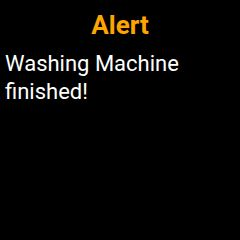
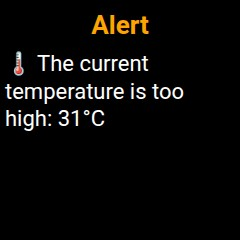
updates examples

diff --git a/README.md b/README.md
@@ -94,7 +94,7 @@ Sends a message or custom HTML to the device. The content is rendered to a 240x2
 action: geek_magic.send_html
 data:
   subject: "Alert"
-  text: "Washing Machine finished!"
+  text: "🌡 The current temperature is too high: {{ states('sensor.average_temperature') | round(1) }}°C"
 ```
 
 </details>
@@ -107,17 +107,19 @@ data:
 ```yaml
 action: geek_magic.send_html
 data:
-  subject: Main door
-  text: |
-    <p style="font-size: 84px; padding: 30px 0">🚪🚶</p>
+  subject: >-
+    ⏳ {{ ((as_timestamp(state_attr('calendar.your_calendar_name', 'start_time')) - as_timestamp(now())) / 60) | round }} minutes
+  text: >-
+    <p style="padding-top:15px; font-size:32px">🕒 {{ as_timestamp(state_attr('calendar.your_calendar_name', 'start_time')) | timestamp_custom('%H:%M') }}<p>
+    <p style="padding-top:25px; font-size:28px; text-align:center">{{ state_attr('calendar.your_calendar_name', 'message') }}<p>
 ```
 
 </details>
 
-![Formatted Notification](/images/render_door.jpg)
+![Formatted Notification](/images/render_calendar.jpg)
 
 <details>
-<summary>Neon Clock</summary>
+<summary>Climate</summary>
 
 ```yaml
 action: geek_magic.send_html
@@ -125,41 +127,138 @@ data:
   html: |
     <html lang="en">
     <head>
-        <title>Neon Clock</title>
-        <style>
-            body {
-                display: flex;
-                justify-content: center;
-                align-items: center;
-                height: 100vh;
-                background: #121212;
-            }
+    <meta charset="UTF-8"/>
+    <title>Climate</title>
+    <style>
+      body {
+        margin: 0;
+        font-family: Roboto, serif;
+      }
 
-            .clock {
-                width: 240px;
-                height: 240px;
-                border-radius: 50%;
-                background: #1e1e1e;
-                display: flex;
-                justify-content: center;
-                align-items: center;
-                font-family: Arial, sans-serif;
-                font-size: 48px;
-                font-weight: bold;
-                color: #00ffae;
-                box-shadow: 0 0 15px rgba(0, 255, 174, 0.5);
-            }
-        </style>
+      .widget {
+        width: 240px;
+        height: 240px;
+        background: #000000;
+        color: #e6e6e6;
+        overflow: hidden;
+      }
+
+      .row {
+        display: flex;
+        justify-content: space-evenly;
+        align-items: stretch;
+        font-size: 112px;
+      }
+    </style>
     </head>
     <body>
-    <div class="clock">{{ as_timestamp(now()) | timestamp_custom('%H:%M') }}</div>
+    <div class="widget">
+      <div class="row">
+        <span style="font-size: 40px; padding-right: 2px">🌡</span>{{ states('sensor.temperature') | round }}<span style="font-size: 48px;">°C</span>
+      </div>
+      <div class="row">
+        <span style="font-size: 40px; padding-right: 2px;">💧</span>{{ states('sensor.humidity') | round }}<span style="font-size: 48px;">%</span>
+      </div>
+    </div>
     </body>
     </html>
 ```
 
 </details>
 
-![Neon Clock](/images/render_clock.jpg)
+![Climate](/images/render_climate.jpg)
+
+<details>
+<summary>Bus Departure</summary>
+
+```yaml
+action: geek_magic.send_html
+data:
+  html: |
+    <html lang="en">
+    <head>
+    <meta charset="UTF-8"/>
+    <title>Bus</title>
+    <style>
+      body {
+        margin: 0;
+        font-family: Roboto, serif;
+      }
+
+      .card {
+        width: 240px;
+        height: 240px;
+        background: #000000;
+        color: #e6e6e6;
+        overflow: hidden;
+        display: flex;
+        flex-direction: column;
+        align-items: center;
+        justify-content: center;
+      }
+
+      .minutes {
+        font-size: 168px;
+        margin: -20px;
+      }
+
+      .label {
+        color: #feba01;
+      }
+
+      .on-time {
+        color: #4ade80;
+      }
+
+      .late {
+        color: #ff391f;
+      }
+
+      .early {
+        color: #60a5fa;
+      }
+    </style>
+    </head>
+    <body>
+    <div class="card">
+      <div class="label" style="font-size: 32px;"><img src="https://abfahrtsmonitor.vbb.de/images/transport/bus_blank.svg" width="24" height="24" alt="Bus Logo"> {{ state_attr('sensor.bus', 'name') }}</div>
+      <div id="main" class="minutes">-</div>
+      <div id="status" style="font-size: 40px;">on-time</div>
+    </div>
+
+    <script>
+      const minsToActual = {{ states('sensor.bus_departure') | int }};
+      const diffSchedActual = {{ states('sensor.bus_delay') | int }};
+
+      const mainEl = document.getElementById("main");
+      const statusEl = document.getElementById("status");
+      mainEl.textContent = minsToActual;
+
+      if (diffSchedActual != 0) {
+        if (diffSchedActual > 0) {
+          statusEl.textContent = `+${diffSchedActual} min`;
+          statusEl.classList.add("late");
+        } else {
+          statusEl.textContent = `${diffSchedActual} min`;
+          statusEl.classList.add("early");
+        }
+      } else {
+        statusEl.classList.add("on-time");
+      }
+
+      if (minsToActual <= 2) {
+        mainEl.classList.add("late");
+      } else if (minsToActual <= 5) {
+        mainEl.classList.add("label");
+      }
+    </script>
+    </body>
+    </html>
+```
+
+</details>
+
+![Bus Departure](/images/render_bus.jpg)
 
 <details>
 <summary>BTC Price</summary>
@@ -167,7 +266,8 @@ data:
 ```yaml
 action: geek_magic.send_html
 data:
-  html: >
+  cache: false
+  html: |
     <html lang="en">
     <head>
     <title>BTC Price</title>
@@ -235,9 +335,6 @@ data:
     </div>
     <canvas id="chart" width="220" height="180"></canvas>
     <script>
-    // TIMESTAMP for cache update:
-    // {{ (as_timestamp(now()) / 60) | round }}
-    
     const PRICE_URL =
       "https://api.coingecko.com/api/v3/simple/price?ids=bitcoin&vs_currencies=usd";
     
@@ -310,7 +407,7 @@ data:
 
 </details>
 
-![BTC Price](/images/render_btc.jpg)
+![BTC Price Down](/images/render_btc_down.jpg) ![BTC Price Up](/images/render_btc_up.jpg)
 
 ### Send Image
 
@@ -332,7 +429,7 @@ Sends a JPEG image from a local path or URL to the device. The image will be aut
 ```yaml
 action: geek_magic.send_image
 data:
-  image_path: /config/www/tmp/snapshot_tapo_c200_c094.jpg
+  image_path: /config/www/camera/snapshot.jpg
 ```
 
 </details>
